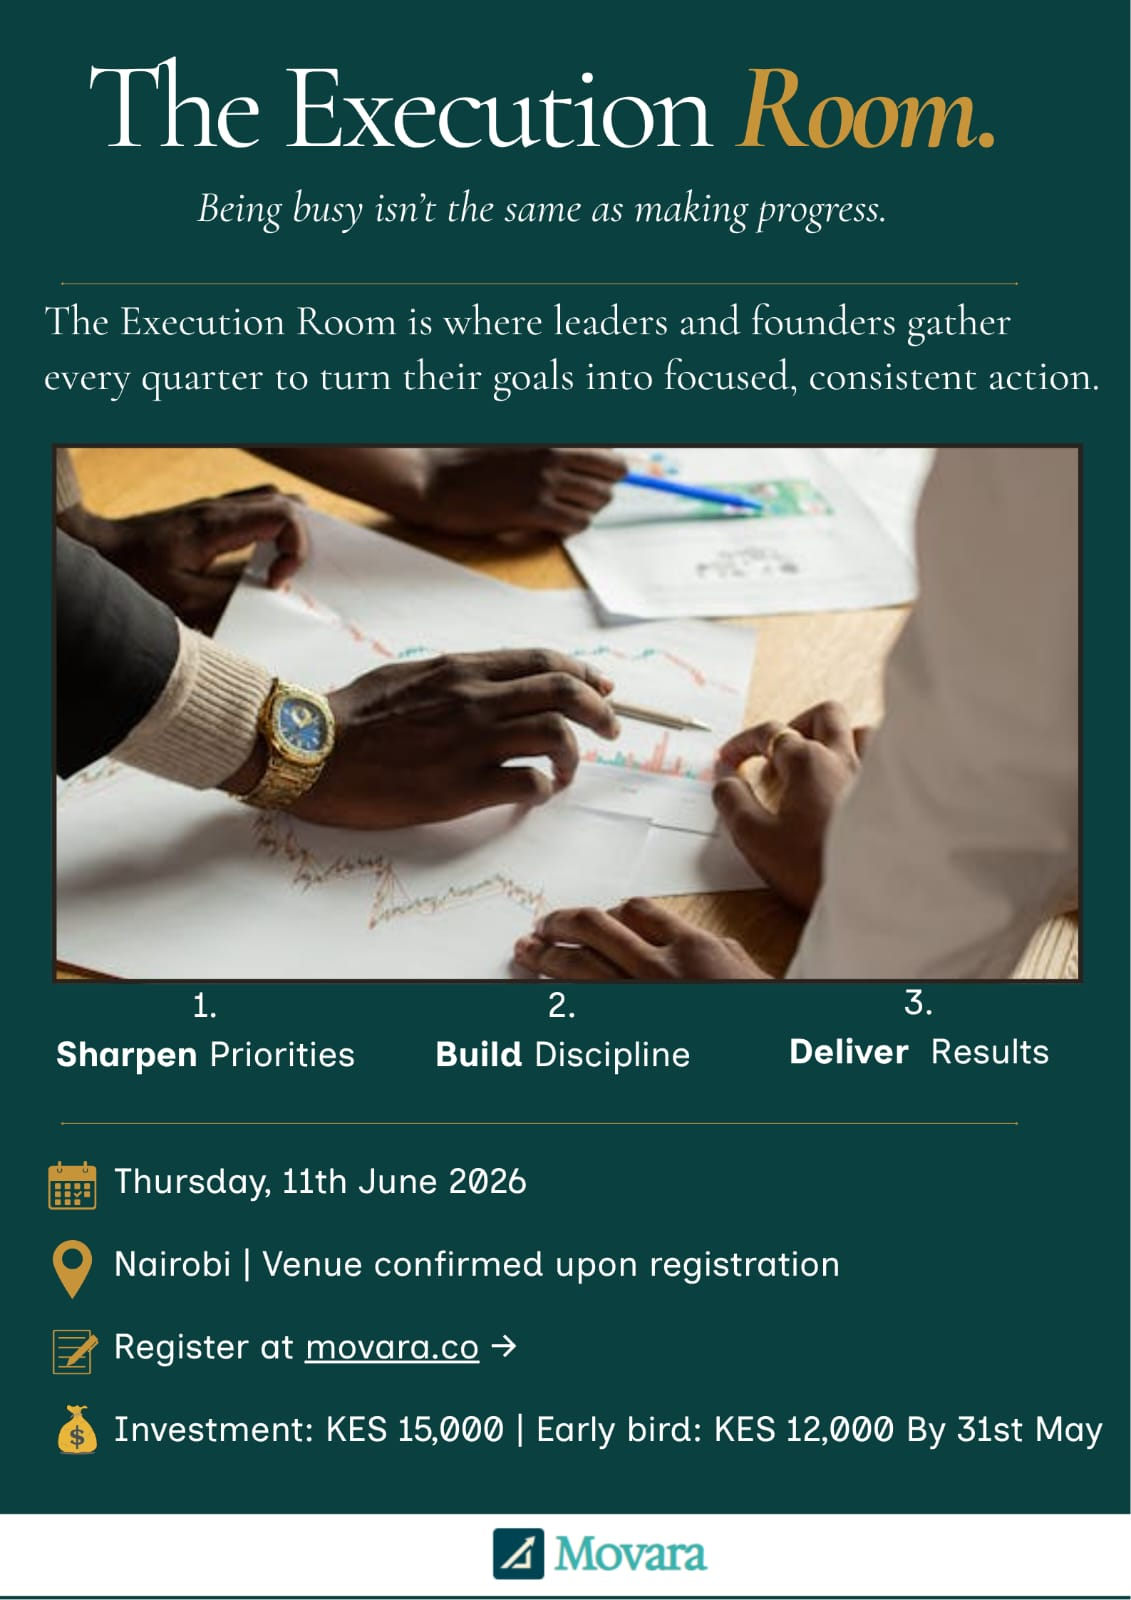
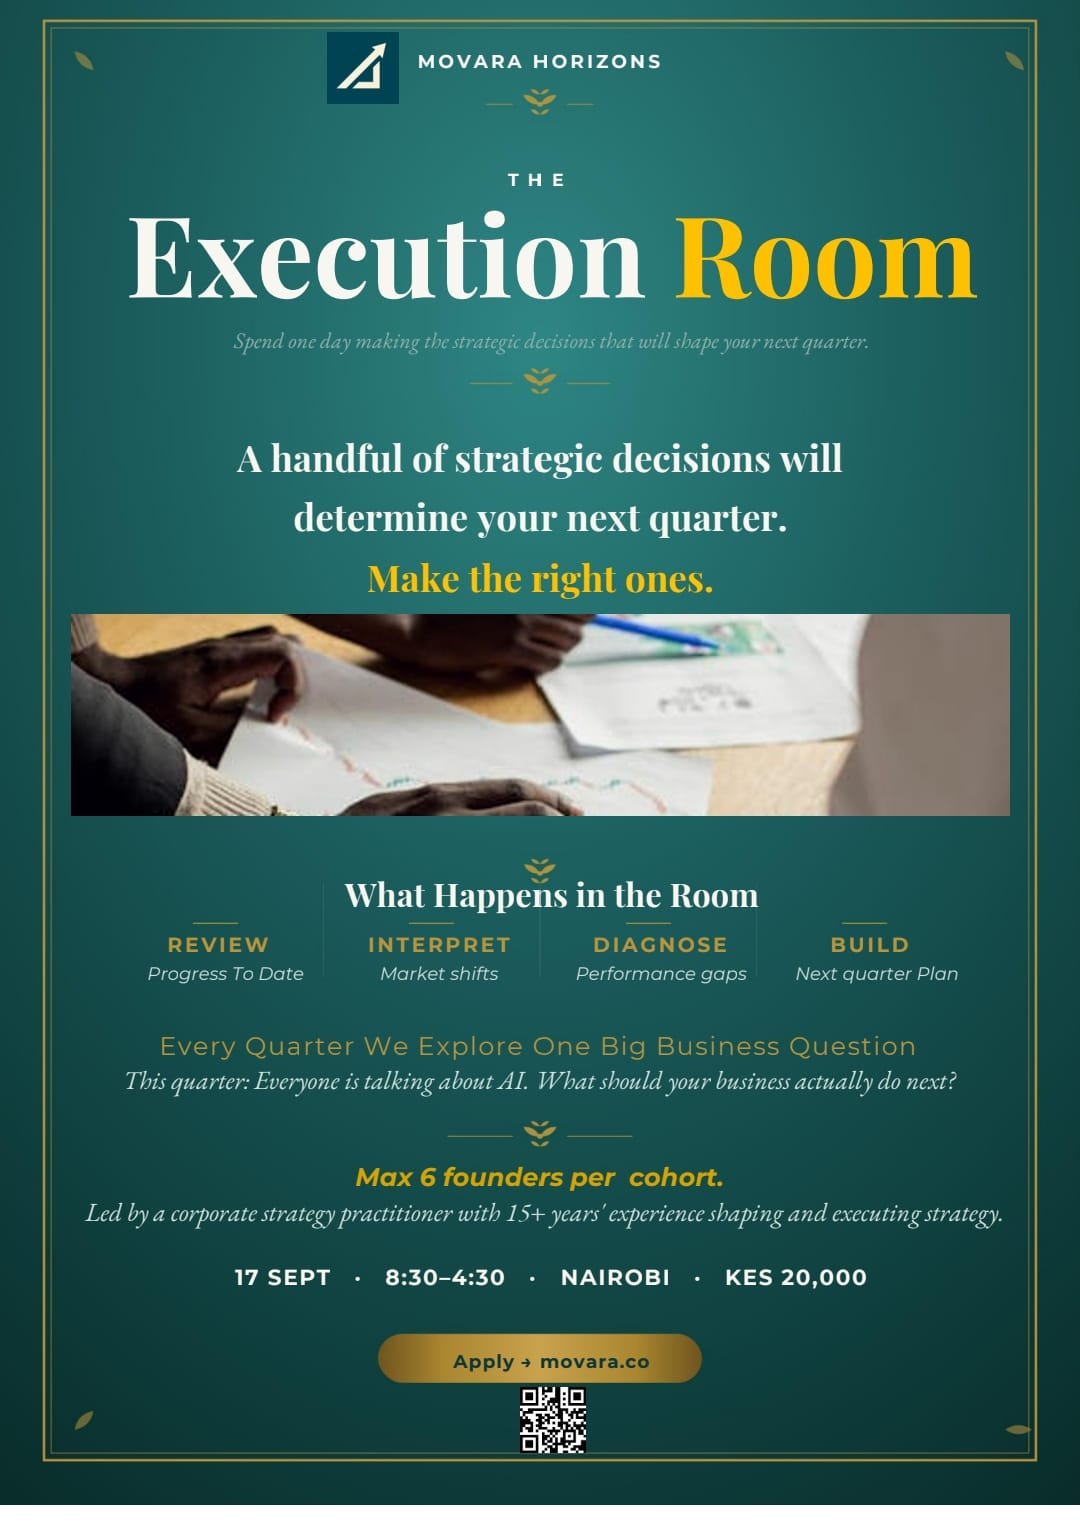
chore: update event

diff --git a/src/components/home/EventBanner.tsx b/src/components/home/EventBanner.tsx
@@ -24,15 +24,16 @@ const DEFAULTS: Required<EventBannerProps> = {
   label: 'Upcoming Event',
   title: 'The Execution',
   titleAccent: 'Room.',
-  tagline: 'Being busy isn\u2019t the same as making progress.',
+  tagline: 'Spend one day making the strategic decisions that will shape your next quarter.',
   pillars: [
-    { verb: 'Sharpen', noun: 'Priorities' },
-    { verb: 'Build', noun: 'Discipline' },
-    { verb: 'Deliver', noun: 'Results' },
+    { verb: 'Review', noun: 'Progress' },
+    { verb: 'Interpret', noun: 'Market' },
+    { verb: 'Diagnose', noun: 'Perfomance' },
+    { verb: 'Build', noun: 'Plan' },
   ],
-  date: 'Thursday, 11th June 2026',
+  date: 'Thursday, 17th September 2026',
   location: 'Nairobi \u2014 Venue confirmed upon registration',
-  investment: 'KES 15,000 \u00a0|\u00a0 Early bird KES 12,000 by 31st May',
+  investment: 'KES 20,000 per participant',
   registrationUrl:
     'https://docs.google.com/forms/d/e/1FAIpQLSey4LiZFeNN0V2n6Cwb3E_nypfq34bhdM4GGWmVzJn4vfFCAw/viewform',
   posterSrc: posterImage,
